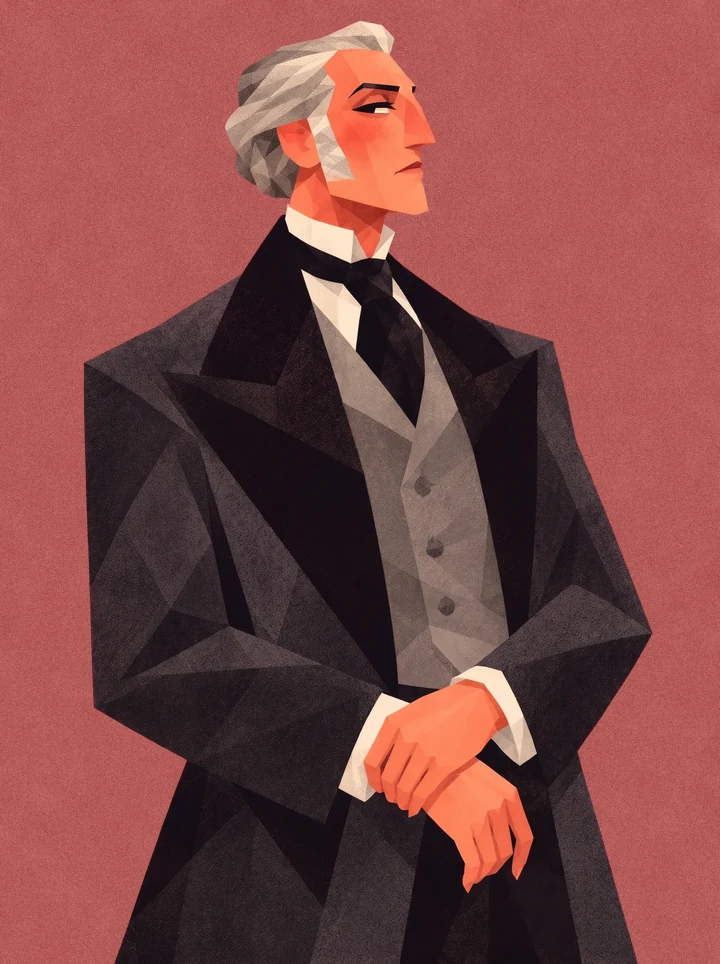
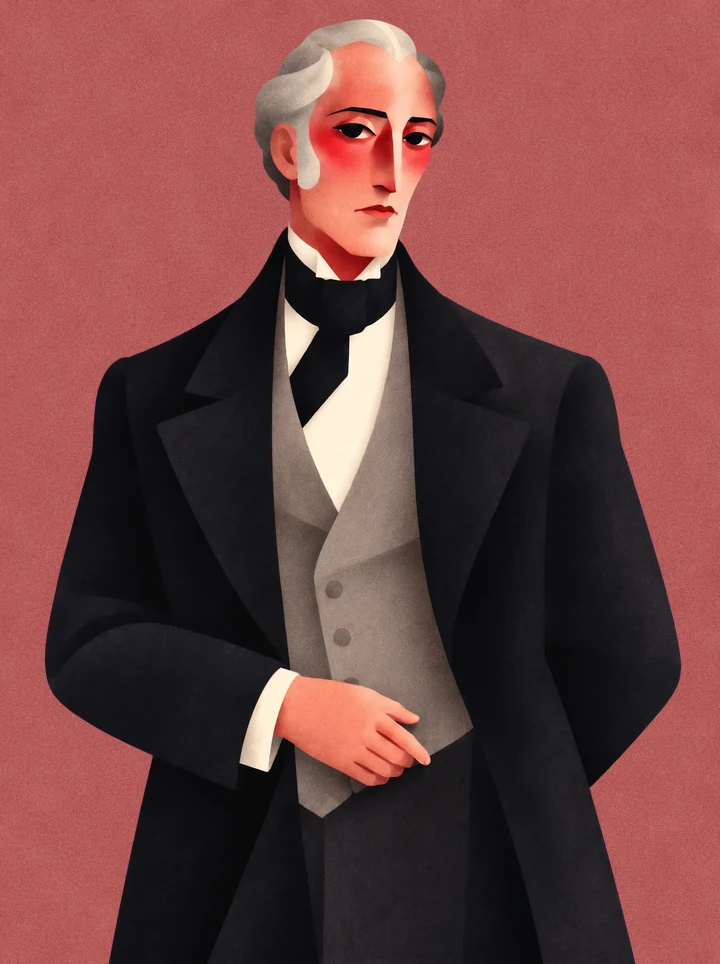
La traviata: new art for Violetta, Alfredo and Germont; Flora Bervoix, Baron Douphol and Annina added as roles with their numbers and portraits; picture descriptions updated for all the new art
Claude-Session: https://claude.ai/code/session_01J9nR1BmP9TjDnKqecdbpyd

diff --git a/src/standalone/opera-extra.ts b/src/standalone/opera-extra.ts
@@ -13,21 +13,21 @@ const pic = (name: string) => pics[`./images/${name}.webp`];
 
 /** what each portrait shows (for screen readers) */
 const PORTRAIT_ALT: Record<string, string> = {
-  "figaro:figaro": "Figaro in an olive waistcoat and white shirt, dark hair tied back, smiling and pointing.",
-  "figaro:susanna": "Susanna in a coral dress with a white apron and cap, holding a note.",
-  "figaro:countess": "The Countess in lilac silk, her powdered hair piled high, a white fan in her hand.",
-  "figaro:count": "Count Almaviva in a purple coat with a lace jabot, white hair tied back, looking sideways.",
-  "figaro:cherubino": "Cherubino in a mustard coat with lace at his throat, curly hair, a hand on his heart.",
+  "figaro:figaro": "Figaro in an olive waistcoat and white shirt, dark hair tied back, a ribbon in his hands.",
+  "figaro:susanna": "Susanna in a dark teal dress with a white apron, dark hair pinned up, one hand held out.",
+  "figaro:countess": "The Countess in lilac silk with white sleeves, grey hair piled high, a white fan in her hand.",
+  "figaro:count": "Count Almaviva in a plum coat and grey waistcoat with a white jabot, dark hair tied back.",
+  "figaro:cherubino": "Cherubino in a mustard coat and brown breeches, light brown hair, a letter held to his chest.",
   "giovanni:dongiovanni": "Don Giovanni in black with an olive cloak over one shoulder, smiling confidently.",
   "giovanni:leporello": "Leporello in a brown coat and red waistcoat, holding open a book and raising a finger.",
   "giovanni:anna": "Donna Anna in black and violet, dark hair loose, looking away with a stern, grieving face.",
   "giovanni:elvira": "Donna Elvira in deep red, auburn hair pinned up, a hand at her heart.",
   "giovanni:zerlina": "Zerlina in a green bodice and white blouse, brown hair tied back, a hand at her chin.",
-  "cosi:fiordiligi": "Fiordiligi in a teal bodice with white sleeves, dark hair pinned with pearls, holding a letter.",
-  "cosi:dorabella": "Dorabella in a coral dress, red hair curled, holding a white fan.",
-  "cosi:ferrando": "Ferrando in a gold coat with a lace jabot, dark hair and a moustache, a hand at his chest.",
-  "cosi:guglielmo": "Guglielmo in a teal coat with a lace jabot, dark hair and a moustache, smiling.",
-  "cosi:alfonso": "Don Alfonso in a black coat with a lace jabot, white hair, leaning on a cane.",
+  "cosi:fiordiligi": "Fiordiligi in a teal bodice with white sleeves, dark hair pinned with pearls, a letter at her heart.",
+  "cosi:dorabella": "Dorabella in a red dress with white sleeves, red hair pinned up, holding a white fan.",
+  "cosi:ferrando": "Ferrando in a gold-striped coat with a white jabot, dark hair, a hand at his chest.",
+  "cosi:guglielmo": "Guglielmo in a dark teal coat with a white jabot, dark hair and a moustache, one hand open.",
+  "cosi:alfonso": "Don Alfonso in a black coat and white shirt, grey hair, a hand at his collar.",
   "zauberfloete:tamino": "Tamino in an ochre tunic with white sleeves, holding the magic flute.",
   "zauberfloete:pamina": "Pamina in a blue dress, long brown hair, a hand at her heart, looking up.",
   "zauberfloete:papageno": "Papageno in a green cloak and a feathered cap, holding his panpipes and grinning.",
@@ -38,13 +38,16 @@ const PORTRAIT_ALT: Record<string, string> = {
   "barbiere:almaviva": "Count Almaviva in a navy coat and gold waistcoat, a hand on his hip.",
   "barbiere:basilio": "Don Basilio in black with a tricorn hat, a hand at his chin, a rolled paper under his arm.",
   "barbiere:bartolob": "Doctor Bartolo in a burgundy coat and olive waistcoat, a grey wig, frowning.",
-  "traviata:violetta": "Violetta in a deep red gown with a white wrap, a white camellia in her hair.",
-  "traviata:alfredo": "Alfredo in a black tailcoat and cream waistcoat, holding white gloves.",
-  "traviata:germont": "Giorgio Germont in a dark suit and grey waistcoat, grey hair, his hands folded.",
-  "carmen:carmen": "Carmen in a red dress and black shawl, a red rose in her dark hair, arms crossed.",
-  "carmen:jose": "Don José in a navy uniform with a gold belt, dark hair, a hand at his collar.",
-  "carmen:micaela": "Micaëla in a blue dress and white shawl, a long braid over her shoulder.",
-  "carmen:escamillo": "Escamillo in a black and gold bullfighter's jacket with a gold sash, a hand on his hip.",
+  "traviata:violetta": "Violetta in a deep red gown with a white wrap, long dark hair, a pearl at her ear.",
+  "traviata:alfredo": "Alfredo in a black coat and cravat, dark hair, a hand at his lapel.",
+  "traviata:germont": "Giorgio Germont in a black coat and grey waistcoat, grey hair, his hands at his waist.",
+  "traviata:flora": "Flora in a deep plum gown with puffed sleeves, auburn hair pinned up, a hand at her collarbone.",
+  "traviata:douphol": "Baron Douphol in a grey frock coat and dark waistcoat, dark hair, his hands clasped.",
+  "traviata:annina": "Annina in a navy maid's dress with a white apron, dark hair pinned up, her hands folded.",
+  "carmen:carmen": "Carmen in a red dress and dark red shawl, dark hair, one hand raised.",
+  "carmen:jose": "Don José in a brown coat over a navy uniform, dark hair, a red flower in his hands.",
+  "carmen:micaela": "Micaëla in a green dress and white shawl, a long braid over her shoulder, holding a letter.",
+  "carmen:escamillo": "Escamillo in a black and gold bullfighter's jacket with a gold sash, a yellow cape over his arm.",
   "butterfly:ciociosan": "Cio-Cio-San in a red and white kimono, white flowers in her black hair.",
   "butterfly:pinkerton": "Pinkerton in a navy officer's uniform with gold buttons and stripes.",
   "butterfly:suzuki": "Suzuki in a teal kimono with a gold sash, dark hair tied back.",

diff --git a/src/standalone/scenes.ts b/src/standalone/scenes.ts
@@ -258,7 +258,7 @@ export const SCENES: Record<string, Scene[]> = {
   traviata: [
     ...A("Act 1", [
       ["Preludio", "Prelude", [], "Divided strings, high and quiet, foretell Violetta's illness; then the melody of her plea in Act 2 (“Amami, Alfredo”)."],
-      ["Dell'invito trascorsa è già l'ora", "Introduction", ["violetta", "alfredo"], "Violetta's party; Gastone introduces Alfredo, who called every day during her illness."],
+      ["Dell'invito trascorsa è già l'ora", "Introduction", ["violetta", "alfredo", "flora", "douphol"], "Violetta's party; Gastone introduces Alfredo, who called every day during her illness."],
       ["Libiamo ne' lieti calici", "Brindisi", ["alfredo", "violetta"], "Alfredo leads the drinking song; Violetta answers."],
       ["Un dì, felice, eterea", "Waltz and duet", ["alfredo", "violetta"], "Alfredo declares a year's love; Violetta laughs it off, but gives him a flower to return when it fades."],
       ["Si ridesta in ciel l'aurora", "Chorus", [], "Dawn: the guests take their leave."],
@@ -266,23 +266,23 @@ export const SCENES: Record<string, Scene[]> = {
     ]),
     ...A("Act 2", [
       ["Lunge da lei… De' miei bollenti spiriti", "Scene and aria", ["alfredo"], "Months later, in the country, Alfredo is happy."],
-      ["O mio rimorso!", "Cabaletta", ["alfredo"], "He learns Violetta is selling her things to pay for their life, and rushes to Paris."],
-      ["Flora's invitation", "Recitative", ["violetta"], "Annina reports where Alfredo has gone; a letter brings Flora's invitation to a party that night, and a visitor is announced."],
+      ["O mio rimorso!", "Cabaletta", ["alfredo", "annina"], "He learns Violetta is selling her things to pay for their life, and rushes to Paris."],
+      ["Flora's invitation", "Recitative", ["violetta", "annina"], "Annina reports where Alfredo has gone; a letter brings Flora's invitation to a party that night, and a visitor is announced."],
       ["Pura siccome un angelo… Dite alla giovine", "Duet", ["violetta", "germont"], "Germont demands Violetta give Alfredo up for his daughter's sake; she agrees."],
       ["Amami, Alfredo", "Scene", ["violetta", "alfredo"], "She writes her farewell, and before leaving begs Alfredo to love her as she loves him."],
       ["Di Provenza il mar, il suol", "Aria", ["germont", "alfredo"], "Alfredo reads Violetta's farewell and his father appears; Germont tries to comfort him with memories of home, but Alfredo sees Flora's invitation and resolves on revenge."],
-      ["Noi siamo zingarelle… Di Madride noi siam mattadori", "Choruses", [], "At Flora's party, gypsies and matadors entertain the guests."],
-      ["The card game", "Scene", ["alfredo", "violetta"], "Alfredo wins heavily at cards from Baron Douphol."],
+      ["Noi siamo zingarelle… Di Madride noi siam mattadori", "Choruses", ["flora"], "At Flora's party, gypsies and matadors entertain the guests."],
+      ["The card game", "Scene", ["alfredo", "violetta", "douphol", "flora"], "Alfredo wins heavily at cards from Baron Douphol."],
       ["Invitato a qui seguirmi", "Duet", ["violetta", "alfredo"], "Violetta begs him to leave; to save him, she says she loves the Baron."],
-      ["Ogni suo aver tal femmina… Alfredo, Alfredo, di questo core", "Finale", ["alfredo", "violetta", "germont"], "Alfredo throws his winnings at her as payment; Germont rebukes his son, and the Baron challenges him."],
+      ["Ogni suo aver tal femmina… Alfredo, Alfredo, di questo core", "Finale", ["alfredo", "violetta", "germont", "flora", "douphol"], "Alfredo throws his winnings at her as payment; Germont rebukes his son, and the Baron challenges him."],
     ]),
     ...A("Act 3", [
       ["Preludio", "Prelude", [], "The prelude to Act 1 returns, sadder still."],
-      ["Teneste la promessa… Addio, del passato", "Scene and aria", ["violetta"], "Dying, she rereads Germont's letter: Alfredo knows and is coming. She bids farewell to her past."],
+      ["Teneste la promessa… Addio, del passato", "Scene and aria", ["violetta", "annina"], "Dying, she rereads Germont's letter: Alfredo knows and is coming. She bids farewell to her past."],
       ["Largo al quadrupede", "Bacchanal (offstage chorus)", [], "Outside, the Carnival crowd parades a fatted ox through the streets."],
-      ["Parigi, o cara", "Duet", ["alfredo", "violetta"], "Alfredo returns; they dream of leaving Paris."],
+      ["Parigi, o cara", "Duet", ["alfredo", "violetta", "annina"], "Alfredo returns; they dream of leaving Paris."],
       ["Gran Dio! morir sì giovane", "Duet", ["violetta", "alfredo"], "Too weak to dress, she cries out against dying so young."],
-      ["Prendi, quest'è l'immagine", "Finale", ["violetta", "alfredo", "germont"], "Germont arrives to ask forgiveness; she gives Alfredo her portrait, feels a sudden strength, and dies."],
+      ["Prendi, quest'è l'immagine", "Finale", ["violetta", "alfredo", "germont", "annina"], "Germont arrives to ask forgiveness; she gives Alfredo her portrait, feels a sudden strength, and dies."],
     ]),
   ],
 

diff --git a/src/standalone/operas.ts b/src/standalone/operas.ts
@@ -765,6 +765,30 @@ export const OPERAS: Opera[] = [
       "kind": "Aria · Act 2"
      }
     ]
+   },
+   {
+    "id": "flora",
+    "name": "Flora Bervoix",
+    "voice": "Mezzo-soprano",
+    "desc": "Violetta's friend, who gives the party in Act 2.",
+    "avatar": "long",
+    "pieces": []
+   },
+   {
+    "id": "douphol",
+    "name": "Baron Douphol",
+    "voice": "Baritone",
+    "desc": "Violetta's protector, and Alfredo's rival.",
+    "avatar": "beard",
+    "pieces": []
+   },
+   {
+    "id": "annina",
+    "name": "Annina",
+    "voice": "Soprano",
+    "desc": "Violetta's maid.",
+    "avatar": "bun",
+    "pieces": []
    }
   ]
  },
